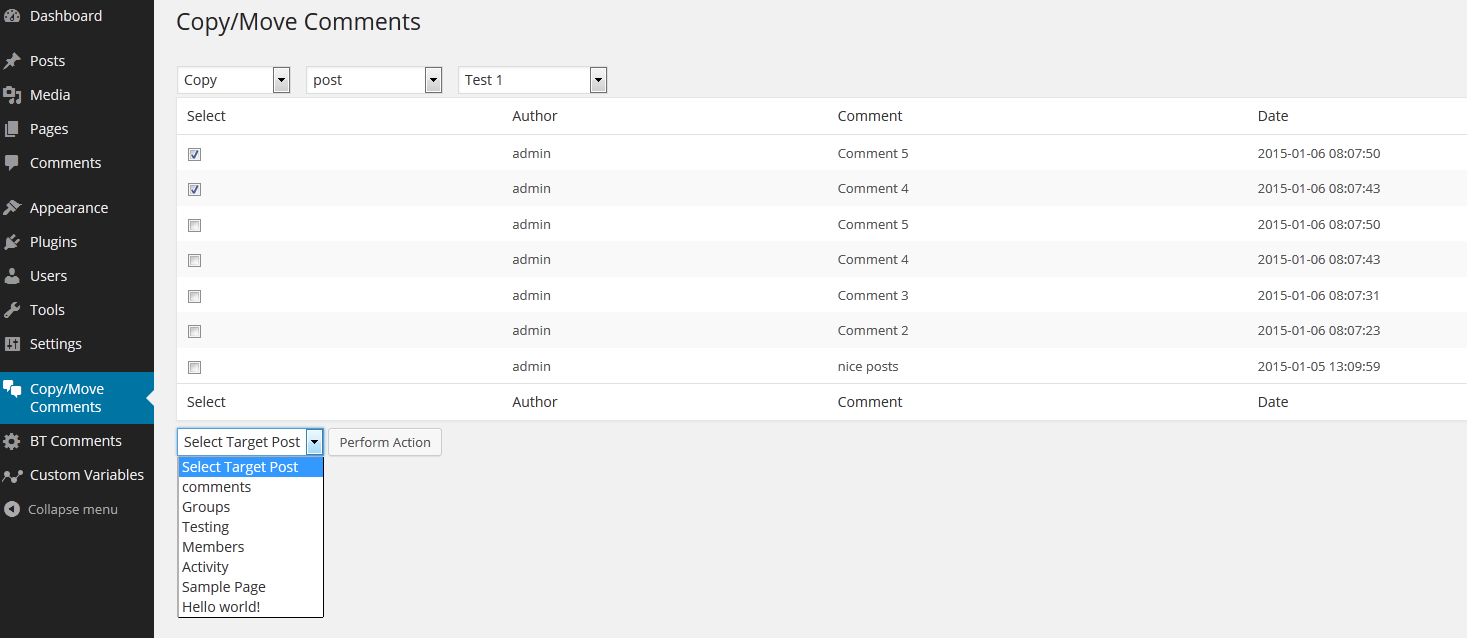
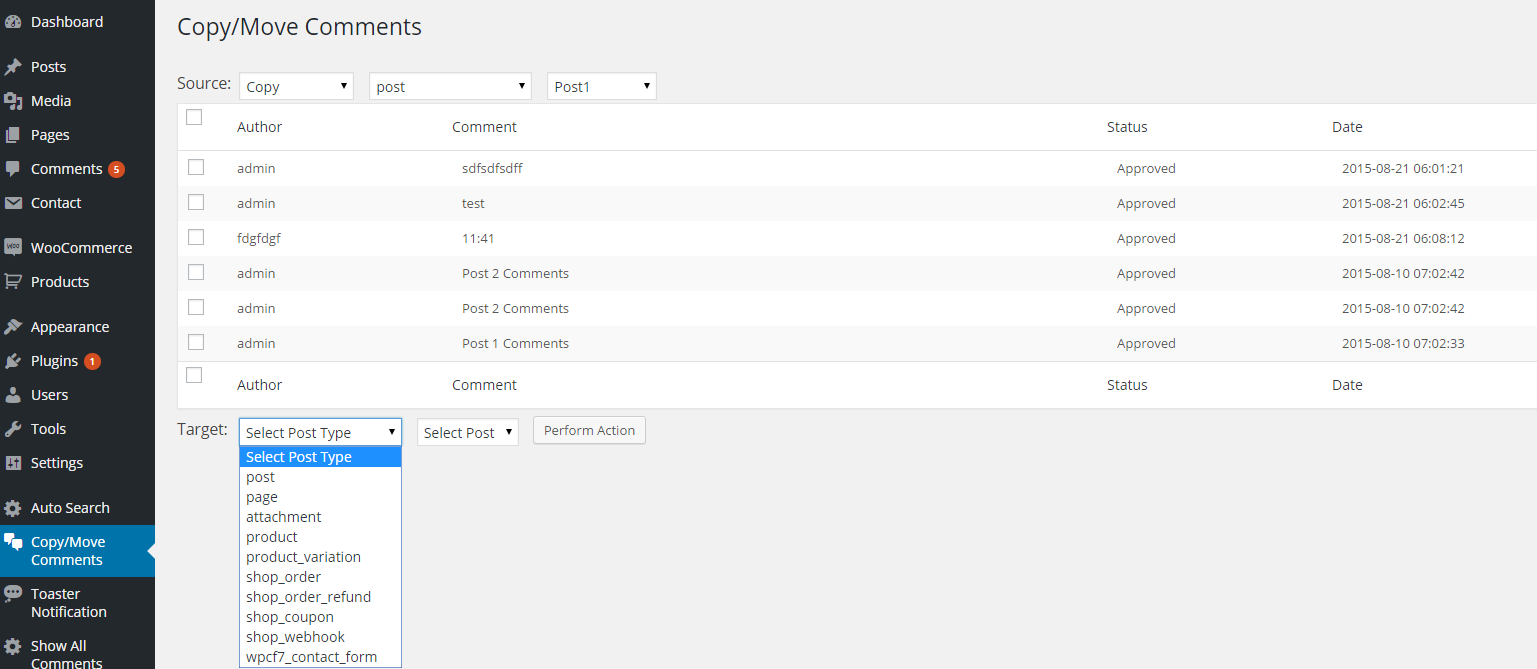
Release new Version 2.0.0 with selection of Target Post Type
git-svn-id: https://plugins.svn.wordpress.org/copy-or-move-comments/trunk@1248450 b8457f37-d9ea-0310-8a92-e5e31aec5664

diff --git a/copy_move_comments.php b/copy_move_comments.php
@@ -3,7 +3,7 @@
 Plugin Name: Copy Or Move Comments
 Plugin URI: 
 Description: Using Copy/Move WordPress Plugin the admin can copy or move any comment from several types of pages to any other page!
-Version: 1.0.1
+Version: 2.0.0
 Author: biztechc
 Author URI: https://profiles.wordpress.org/biztechc/
 License: GPLv2
@@ -46,6 +46,7 @@ if (!class_exists('copy_move_comments'))
                 do_settings_sections( 'copy-move-settings-group' );
                 ?>
                 <div class="tablenav top">
+                <big style="float: left; margin-top: 5px; margin-right: 7px;"><?php _e("Source"); ?>:</big> 
                 <div class="alignleft actions">
                 <label class="screen-reader-text">Select Action</label>
                     <select id="copy-move" name="copy-move">
@@ -76,13 +77,40 @@ if (!class_exists('copy_move_comments'))
                 
                 <div class="alignleft actions" id="">
                     <select id="source_post" name="source_post">
-                    <option value="">Select Source Post</option>
+                    <option value="">Select Post</option>
                     </select>
                 <span id="bc_loader" style="display: none;"><img src="<?php echo plugins_url( 'ajax-loader.gif', __FILE__ );?>" alt=""></span>
                 </div>
                 
                 </div>
                 <div id="get_comments"></div>
+                <div class="tablenav bottom" style="display: none;">
+                <big style="float: left; margin-top: 5px; margin-right: 10px;"><?php _e("Target"); ?>:</big> 
+                <div class="alignleft actions"> 
+                <?php
+                    $target_post_types = get_post_types( '', 'names' );
+                    
+                    unset($target_post_types['revision']);
+                    unset($target_post_types['nav_menu_item']);
+                ?>                                
+                <select name="target_all_post_types" id="target_all_post_types">
+                    <option value="0">Select Post Type</option>
+                    <?php 
+                    foreach($target_post_types as $target_post_type) {
+                        ?>
+                            <option value="<?php echo $target_post_type;?>"><?php echo $target_post_type;?></option>  
+                        <?php 
+                    }
+                    ?>
+                </select> 
+                </div>
+                <div class="alignleft actions">
+                <select id="target_post" name="target_post">
+                    <option value="0">Select Post</option>                    
+                </select>
+                <span id="target_bc_loader" style="display: none;"><img src="<?php echo plugins_url( 'ajax-loader.gif', __FILE__ );?>" alt=""></span></div>
+                <input type="submit" value="Perform Action" class="button action" id="doaction2" name="" onclick="return chk_val();">
+                </div>
                 <input type="hidden" name="action" value="action_move">    
                                 </form>
                                 <script type="text/javascript">
@@ -116,28 +144,50 @@ add_action( 'wp_ajax_get_all_posts', 'get_all_posts_callback');
 add_action( 'wp_ajax_get_post_comments', 'get_post_comments_callback');
 add_action( 'wp_ajax_perform_action', 'perform_action_callback');
 
-function copy_move_get_all_posts()
-{ 
-                wp_enqueue_script( 'jquery' );
-                ?>
-                <script type="text/javascript">
-                 
-                jQuery(document).ready(function($) {
-                    jQuery("#all_post_types").change(function (){
-                        var post_type = jQuery(this).val();
-                        jQuery("#bc_loader").show();
-                        
-                        var data = {
-                        'action': 'get_all_posts',
-                        'post_type': post_type
-                        };
-        jQuery.post(ajaxurl, data, function(response) { 
-            jQuery("#source_post").html(response);
+function copy_move_get_all_posts() { 
+    
+    wp_enqueue_script( 'jquery' );
+    ?>
+<script type="text/javascript">
+    jQuery(document).ready(function($) {
+        jQuery("#all_post_types").change(function (){
+            var post_type = jQuery(this).val();
+            jQuery("#bc_loader").show();
+            var data = {
+            'action': 'get_all_posts',
+            'post_type': post_type
+            };
+            jQuery.post(ajaxurl, data, function(response) { 
+                jQuery("#source_post").html(response);
                 jQuery("#bc_loader").hide();
-        });        
-                    });       
-                   });
-                </script>
+            });        
+        }); 
+        
+        jQuery("#target_all_post_types").change(function (){
+            var post_type = jQuery(this).val();
+            jQuery("#target_bc_loader").show();
+            var data = {
+            'action': 'get_all_posts',
+            'post_type': post_type
+            };
+            jQuery.post(ajaxurl, data, function(response) { 
+                jQuery("#target_post").html(response);
+                jQuery("#target_bc_loader").hide();
+                
+                var source_post_value = jQuery("#source_post").val();  
+                jQuery("#target_post option[value='"+source_post_value+"']").remove(); 
+            });        
+        });
+        
+        jQuery("#source_post").on("change", function(){
+            jQuery(".tablenav.bottom").show();
+            var post_type_value = jQuery("#target_all_post_types").val();            
+            if(post_type_value != 0) {
+                jQuery("#target_all_post_types").trigger("change"); 
+            }
+        });       
+    });
+</script>
 <?php 
 }
 function get_all_posts_callback()
@@ -146,7 +196,7 @@ function get_all_posts_callback()
    $action_type = sanitize_text_field($_POST['action_type']);
     $get_res = new copy_move_functions();
     $get_posts = $get_res->get_posts($post_type);?>
-    <option value="">Select Source Post</option>
+    <option value="">Select Post</option>
     <?php foreach($get_posts as $get_post){?>
         <option value="<?php echo $get_post->id;?>"><?php echo $get_post->post_title;?></option>    
     <?php 
@@ -180,8 +230,9 @@ function get_post_comments_callback()
     $post_id = sanitize_text_field($_POST['post_id']);
     $post_type = sanitize_text_field($_POST['post_type']);
     $action_type = sanitize_text_field($_POST['action_type']);
-    $get_res1 = new copy_move_functions();
-    $get_comments = $get_res1->get_all_comments_by_postid($post_id); ?>
+    $get_res1 = new copy_move_functions(); 
+    $get_comments = $get_res1->get_all_comments_by_postid($post_id); 
+    ?>
   
             <table class="wp-list-table widefat fixed posts">
                 <thead>
@@ -189,6 +240,7 @@ function get_post_comments_callback()
                     <th style="" class="manage-column column-cb check-column" scope="col"><input type="checkbox" value="0" name="move_comment_id[]" onchange="checkAll(this);"></th>
                     <th style="" class="manage-column column-author" scope="col">Author</th>
                     <th width="400" style="" class="manage-column column-title sortable desc" scope="col">Comment</th>
+                    <th style="" class="manage-column column-date sortable asc" scope="col">Status</th>
                     <th style="" class="manage-column column-date sortable asc" scope="col">Date</th>
                 </tr>
                 </thead>
@@ -207,16 +259,23 @@ function get_post_comments_callback()
                 }
                 ?> 
             <tr class="<?php echo $cls;?>" id="<?php echo $c;?>">
-                <td><input type="checkbox" value="<?php echo $get_comment->comment_id;?>" name="move_comment_id[]"></td>
+                <td><input type="checkbox" value="<?php echo $get_comment->comment_id;?>" name="move_comment_id[]" class="chkbox_val"></td>
                 <td><?php echo $get_comment->comment_author;?></td>
                 <td><?php echo $get_comment->comment_content;?></td>
+                <?php if($get_comment->comment_approved == '1'){
+                    $status = 'Approved';
+                }else
+                {
+                    $status = 'Pending';
+                }?>
+                <td><?php echo $status;?></td>
                 <td><?php echo $get_comment->comment_date;?></td>
             </tr>
             <?php }
             }else
             {?>
                 <tr>
-                <td class="source_error">No Comments found. Please change Source Post.</td>
+                <td class="source_error" colspan="4" align="center">No Comments found. Please change Source Post.</td>
                 </tr>
                 
             <?php }
@@ -226,28 +285,52 @@ function get_post_comments_callback()
                 <th style="" class="manage-column column-cb check-column" scope="col"><input type="checkbox" value="0" name="move_comment_id[]" onchange="checkAll(this);"></th>
                     <th style="" class="manage-column column-author" scope="col">Author</th>
                     <th width="400" style="" class="manage-column column-title sortable desc" scope="col">Comment</th>
+                    <th style="" class="manage-column column-date sortable asc" scope="col">Status</th>
                     <th style="" class="manage-column column-date sortable asc" scope="col">Date</th>
             </tr>
             </tfoot>
             </tbody>
             </table>
 <?php 
-$get_posts = $get_res1->get_current_all_posts($post_type,$post_id);
-?>
-    <div class="tablenav bottom">
-    <select id="target_post" name="target_post">
-    <option value="">Select Target Post</option>
-    <?php foreach($get_posts as $get_post){?>
-        <option value="<?php echo $get_post->ID;?>"><?php echo $get_post->post_title;?></option>    
-    <?php 
-    }?>
-    </select>
-    <input type="submit" value="Perform Action" class="button action" id="doaction2" name="">
-    </div>
-    <?php 
+
 exit;
 }
-
+?>
+<script type="text/javascript">
+function chk_val()
+{
+    var target_type = jQuery('#target_all_post_types').val();
+    var target_post = jQuery('#target_post').val();
+    
+    var flag = 0;
+    jQuery('input[type=checkbox]').each(function () {
+       var sThisVal = (this.checked ? jQuery(this).val() : "");
+       
+       if(sThisVal != ''){
+        flag = 1;   
+       }
+  });
+  if(flag == 0)
+  {
+      alert('Select any one comment');
+      return false;  
+  }
+  if(target_type == 0)
+  {
+      alert('Select any one post type');
+      return false;  
+      
+  }
+  if(target_post == 0)
+  {
+      alert('Select any one target post');
+      return false;  
+      
+  }
+    
+}
+</script>
+<?php 
 add_action( 'admin_post_action_move', 'prefix_admin_action_move' );
 function prefix_admin_action_move()
 {
@@ -264,7 +347,7 @@ function prefix_admin_action_move()
     
     $transfer_comments = $perform_action->perform_action($get_source_id,$get_target_id,$get_action_type,$get_comment_id);   
     $url = admin_url();
-    wp_redirect( $url.'/edit-comments.php');
+    wp_redirect( $url.'/admin.php?page=copy-move&success=1');
     exit;
 }
 else
@@ -276,8 +359,19 @@ else
 }
 
 add_action('admin_footer','error_message');
-function error_message(){
-  if($_REQUEST['error'] && $_REQUEST['error'] == 1)
+function error_message(){ 
+  if($_REQUEST['success'] && $_REQUEST['success'] == 1)
+  {
+      $url = admin_url();
+      $all_comment = $url.'edit-comments.php';
+      ?>
+  <div  class="notice notice-success">
+        <p><?php _e( 'Comments moved/copied successfully.  &nbsp;&nbsp;Click here to <a href="'.$all_comment.'">view.</a>'); ?></p>
+    </div>      
+      
+  <?php 
+  }
+    if($_REQUEST['error'] && $_REQUEST['error'] == 1)
   {?>
   <div class="error">
         <p><?php _e( 'Please select atleast one comment to copy/move.'); ?></p>

diff --git a/copy_move_functions.php b/copy_move_functions.php
@@ -18,7 +18,7 @@ class copy_move_functions
 
         if(is_numeric($id))
         {        
-            $data = $wpdb->get_results( $wpdb->prepare( "select comment_id, comment_author,comment_date, comment_content from $wpdb->comments where comment_post_id = %s order by comment_id desc", $id ) );
+            $data = $wpdb->get_results( $wpdb->prepare( "select comment_id, comment_author,comment_date,comment_content,comment_approved from $wpdb->comments where comment_post_id = %s order by comment_id desc", $id ) );
             //$data = $wpdb->get_results("select comment_id, comment_author,comment_date, comment_content from $wpdb->comments where comment_post_id = $id order by comment_id desc");
         }
         return $data;
@@ -62,8 +62,8 @@ class copy_move_functions
         if($get_action_type == 'copy')
         {
               
-            $all_comments = $wpdb->get_results($wpdb->prepare( "select * from $wpdb->comments where comment_id IN (%s)", $comment_id ));
-            //$all_comments = $wpdb->get_results("select * from $wpdb->comments where comment_id IN ($comment_id)");
+           // $all_comments = $wpdb->get_results($wpdb->prepare( "select * from $wpdb->comments where comment_id IN (%s)", $comment_id ));
+            $all_comments = $wpdb->get_results("select * from $wpdb->comments where comment_id IN ($comment_id)");
             foreach($all_comments as $data1)
             {
                 $data = array(
